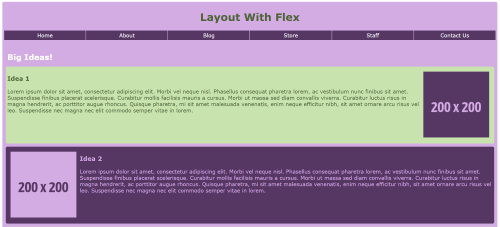
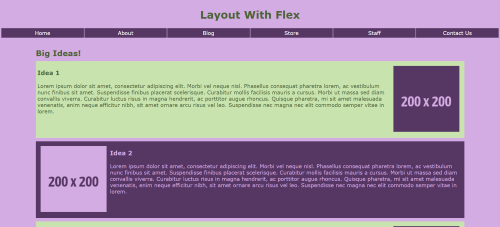
Updated Assignment 3 and Main Page

diff --git a/csce 242/assignments/assignment 03/styles.css b/csce 242/assignments/assignment 03/styles.css
@@ -19,13 +19,13 @@
 }
 
 #sub1{
-    color: white;
-    padding: 5px;
+    color: #4C6335;
+    padding-left:100px;
     margin: 5px;
 }
 
 #top-section{
-   padding: 0 40px 0 40px;
+   padding: 0 100px 0 100px;
 }
 
 .big-idea{
@@ -118,6 +118,7 @@
 /* Typography */
 body{
     font-family: Verdana, sans-serif;
+    margin: 0;
 }
 
 #main-header h1{
